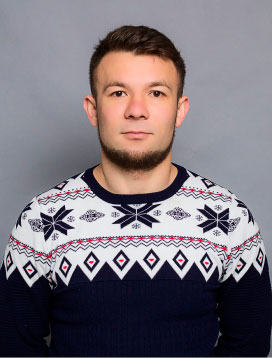
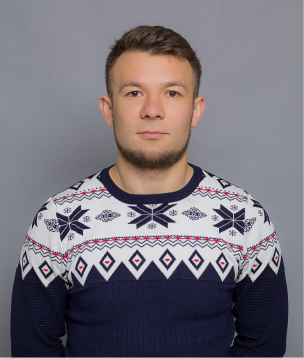
refact: team__card__image

diff --git a/index.html b/index.html
@@ -455,7 +455,10 @@
         <div class="row">
           <div class="col-30 wow fadeInUp" data-wow-delay="0.4s">
             <div class="card team__card team__card-img1">
-              <img src="img/team/team-1.jpg" alt="Проектный менеджер" class="card__image team__card__image">
+              <div class="team__card-img">
+                <img src="img/team/team-1.jpg" alt="Проектный менеджер" class="card__image team__card__image">
+              </div>
+              <!-- /.team__card-img -->
               <div class="card__text team__card__text">
                 <h3 class="card__title team__card__title">Алексей&nbsp;Колмаков</h3>
                 <!-- /.card__title -->
@@ -472,7 +475,10 @@
           <!-- /.col -->
           <div class="col-30 wow fadeInUp" data-wow-delay="0.6s">
             <div class="card team__card team__card-img2">
-              <img src="img/team/team-2.jpg" alt="Дизайнер" class="card__image">
+              <div class="team__card-img">
+                <img src="img/team/team-2.jpg" alt="Дизайнер" class="card__image team__card__image">
+              </div>
+              
               <div class="card__text team__card__text">
                 <h3 class="card__title team__card__title">Алиса&nbsp;Сухорукова</h3>
                 <!-- /.card__title -->
@@ -489,7 +495,9 @@
           <!-- /.col -->
           <div class="col-30 wow fadeInUp" data-wow-delay="0.8s">
             <div class="card team__card team__card-img3">
-              <img src="img/team/team-3.jpg" alt="Бригадир" class="card__image">
+              <div class="team__card-img">
+                <img src="img/team/team-3.jpg" alt="Бригадир" class="card__image team__card__image">
+              </div>
               <div class="card__text team__card__text">
                 <h3 class="card__title team__card__title">Давид&nbsp;Волынев</h3>
                 <!-- /.card__title -->

diff --git a/css/style.css b/css/style.css
@@ -828,6 +828,11 @@ input.invalid {
     flex-direction: column;
     margin: auto;
     max-width: 19.42rem; }
+    .team__card-img {
+      width: 272px;
+      overflow: hidden; }
+    .team__card__image {
+      width: 305px; }
     .team__card-img1::before {
       content: '';
       background: #E3B873 url("../img/team/team_img-1.svg") no-repeat center/cover;
@@ -1410,6 +1415,8 @@ input.invalid {
       font-size: 1.285rem; }
     .team__card__tag {
       margin-top: 1.714rem; }
+    .team__card-img {
+      width: 305px; }
     .team__text {
       display: none; }
   .customers {

diff --git a/sass/templates/_team.sass b/sass/templates/_team.sass
@@ -27,6 +27,11 @@
     flex-direction: column
     margin: auto
     max-width: 19.42rem
+    &-img
+      width: 272px
+      overflow: hidden
+    &__image
+      width: 305px
     &-img1
       &::before
         content: ''
@@ -57,6 +62,7 @@
         width: 70px
         height: 70px
         box-shadow: 0px 5px 20px rgba($primary, 0.5)
+     
     &__text
       max-width: 16.64rem
       width: 16.64rem

diff --git a/sass/_media.sass b/sass/_media.sass
@@ -246,6 +246,8 @@
         font-size: 1.285rem
       &__tag
         margin-top: 1.714rem
+      &-img
+        width: 305px
     &__text
       display: none
   \\адаптация наши клиенты
